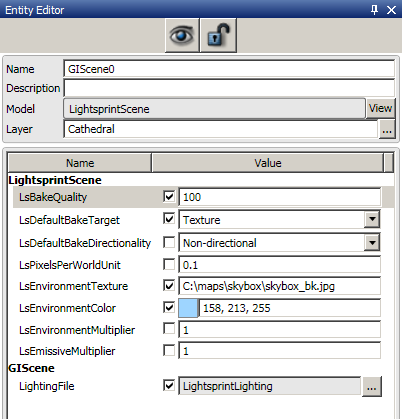
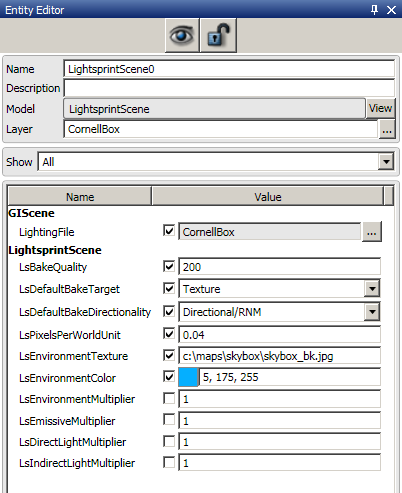
svn3495
gamebryo:
+DirectLightMultiplier
+IndirectLightMultiplier
+EmissiveMultiplier v meshi

diff --git a/src/LightsprintIO/ImportGamebryo/RRObjectGamebryo.cpp b/src/LightsprintIO/ImportGamebryo/RRObjectGamebryo.cpp
@@ -695,13 +695,25 @@ private:
 //
 // Non cached, to be called at most once per mesh.
 
-static RRMaterial* detectMaterial(NiMesh* mesh, float emissiveMultiplier)
+struct MaterialInputs
+{
+	NiMesh* mesh;
+	float emissiveMultiplier;
+
+	MaterialInputs(NiMesh* _mesh, float _emissiveMultiplier)
+	{
+		mesh = _mesh;
+		emissiveMultiplier = _emissiveMultiplier;
+	}
+};
+
+static RRMaterial* detectMaterial(MaterialInputs _materialInputs)
 {
 	RRMaterial* materialPtr = new RRMaterial;
 	RRMaterial& material = *materialPtr;
 
 	// detect material properties
-	NiStencilProperty* pkStencilProperty = NiDynamicCast(NiStencilProperty, mesh->GetProperty(NiProperty::STENCIL));
+	NiStencilProperty* pkStencilProperty = NiDynamicCast(NiStencilProperty, _materialInputs.mesh->GetProperty(NiProperty::STENCIL));
 	NiStencilProperty::DrawMode drawMode = pkStencilProperty ? pkStencilProperty->GetDrawMode() : NiStencilProperty::DRAW_CCW;
 	switch(drawMode)
 	{
@@ -733,7 +745,7 @@ static RRMaterial* detectMaterial(NiMesh* mesh, float emissiveMultiplier)
 	NiMaterialDetector* materialDetector = NiMaterialDetector::GetInstance();
 	if (materialDetector)
 	{
-		NiMaterialPointValuesPtr spColorValues = materialDetector->CreatePointMaterialTextures(mesh);
+		NiMaterialPointValuesPtr spColorValues = materialDetector->CreatePointMaterialTextures(_materialInputs.mesh);
 		material.diffuseEmittance.texture = convertTexture(spColorValues->m_spEmittanceTexture);
 		material.diffuseEmittance.texcoord = CH_EMISSIVE;
 		material.diffuseReflectance.texture = convertTextureAndSubtract(spColorValues->m_spDiffuseTexture,material.diffuseEmittance.texture);
@@ -744,7 +756,7 @@ static RRMaterial* detectMaterial(NiMesh* mesh, float emissiveMultiplier)
 		material.specularTransmittance.texcoord = CH_DIFFUSE; // transmittance has its own texture, but uv is shared with diffuse
 		material.specularTransmittanceInAlpha = false;
 		material.lightmapTexcoord = CH_LIGHTMAP;
-		material.diffuseEmittance.multiplyAdd(RRVec4(emissiveMultiplier),RRVec4(0)); // must be done after all subtractions
+		material.diffuseEmittance.multiplyAdd(RRVec4(_materialInputs.emissiveMultiplier),RRVec4(0)); // must be done after all subtractions
 
 		// get average colors from textures
 		RRScaler* scaler = RRScaler::createFastRgbScaler();
@@ -760,7 +772,7 @@ static RRMaterial* detectMaterial(NiMesh* mesh, float emissiveMultiplier)
 	// optimize material flags
 	material.updateSideBitsFromColors();
 
-	material.name = mesh->GetActiveMaterial() ? mesh->GetActiveMaterial()->GetName() : NULL;
+	material.name = _materialInputs.mesh->GetActiveMaterial() ? _materialInputs.mesh->GetActiveMaterial()->GetName() : NULL;
 	return materialPtr;
 }
 
@@ -777,23 +789,22 @@ static RRMaterial* detectMaterial(NiMesh* mesh, float emissiveMultiplier)
 class MaterialCacheGamebryo
 {
 public:
-	MaterialCacheGamebryo(float _emissiveMultiplier)
+	MaterialCacheGamebryo()
 	{
 		defaultMaterial.reset(false);
-		emissiveMultiplier = _emissiveMultiplier;
 	}
 	// Looks for material in cache. Not found -> creates new material and stores it in cache.
 	// Called once per mesh.
-	RRMaterial* getMaterial(NiMesh* mesh)
+	RRMaterial* getMaterial(MaterialInputs _materialInputs)
 	{
-		if (!mesh)
+		if (!_materialInputs.mesh)
 		{
 			return &defaultMaterial;
 		}
 		// quickly search in map by NiMaterial
 		SlowCache* slowCache;
 		{
-			FastCache::iterator i = fastCache.find(mesh->GetActiveMaterial());
+			FastCache::iterator i = fastCache.find(_materialInputs.mesh->GetActiveMaterial());
 			if (i!=fastCache.end())
 			{
 				//RRReporter::report(INF1,"1 in cache\n");
@@ -802,13 +813,13 @@ public:
 			else
 			{
 				//RRReporter::report(INF1,"1 new\n");
-				slowCache = &( fastCache[mesh->GetActiveMaterial()] );
+				slowCache = &( fastCache[_materialInputs.mesh->GetActiveMaterial()] );
 			}
 		}
 		// slowly scan whole list by isEqualMaterial
 		for (SlowCache::iterator i=slowCache->begin();i!=slowCache->end();++i)
 		{
-			if (isEqualMaterial(mesh,(*i).mesh))
+			if (isEqualMaterial(_materialInputs,(*i).materialInputs))
 			{
 				//RRReporter::report(INF1,"2 in cache\n");
 				return (*i).material;
@@ -817,25 +828,20 @@ public:
 		//RRReporter::report(INF1,"2 new\n");
 		// push CacheElement, then assign material
 		// (RRMaterial must not be assigned to temporary CacheElement, becuase ~CacheElement at the end of this scope would delete material textures)
-		slowCache->push_front(CacheElement(mesh));
-		return slowCache->begin()->material = detectMaterial(mesh,emissiveMultiplier);
-	}
-	void setEmissiveMultiplier(float _emissiveMultiplier)
-	{
-		emissiveMultiplier = _emissiveMultiplier;
+		slowCache->push_front(CacheElement(_materialInputs));
+		return slowCache->begin()->material = detectMaterial(_materialInputs);
 	}
 private:
 	RRMaterial defaultMaterial;
-	float emissiveMultiplier;
 
 	struct CacheElement
 	{
-		const NiMesh* mesh;
+		MaterialInputs materialInputs;
 		RRMaterial* material;
 
-		CacheElement(const NiMesh* _mesh)
+		CacheElement(MaterialInputs _materialInputs)
+			: materialInputs(_materialInputs)
 		{
-			mesh = _mesh;
 			material = NULL;
 		}
 		CacheElement& operator =(const CacheElement& a)
@@ -845,7 +851,7 @@ private:
 			// copying non-NULL material would lead to double delete
 			RR_ASSERT(!a.material);
 			material = NULL;
-			mesh = a.mesh;
+			materialInputs = a.materialInputs;
 		}
 		~CacheElement()
 		{
@@ -856,13 +862,15 @@ private:
 	typedef std::map<const NiMaterial*,SlowCache> FastCache;
 	FastCache fastCache;
 
-	static bool isEqualMaterial(const NiMesh* mesh1, const NiMesh* mesh2)
+	static bool isEqualMaterial(const MaterialInputs& mesh1, const MaterialInputs& mesh2)
 	{
-		// proper use of FastCache ensures that only meshes with identical active material are compared
-		RR_ASSERT(mesh1->GetActiveMaterial()==mesh2->GetActiveMaterial());
+		if (mesh1.emissiveMultiplier!=mesh2.emissiveMultiplier) return false;
 
-		NiPropertyState* ps1 = mesh1->GetPropertyState();
-		NiPropertyState* ps2 = mesh2->GetPropertyState();
+		// proper use of FastCache ensures that only meshes with identical active material are compared
+		RR_ASSERT(mesh1.mesh->GetActiveMaterial()==mesh2.mesh->GetActiveMaterial());
+
+		NiPropertyState* ps1 = mesh1.mesh->GetPropertyState();
+		NiPropertyState* ps2 = mesh2.mesh->GetPropertyState();
 		#define TEST_FAST(prop) if (!ps1->Get##prop()->IsEqualFast(*ps2->Get##prop())) return false;
 		#define TEST_SLOW(prop) if (!ps1->Get##prop()->IsEqual    ( ps2->Get##prop())) return false;
 		TEST_FAST(Alpha);
@@ -985,6 +993,7 @@ struct PerEntitySettings
 	float lsResolutionMultiplier;
 	unsigned lsResolutionFixedWidth;
 	unsigned lsResolutionFixedHeight;
+	float lsEmissiveMultiplier;
 
 	PerEntitySettings()
 	{
@@ -994,6 +1003,7 @@ struct PerEntitySettings
 		lsResolutionMultiplier = 1;
 		lsResolutionFixedWidth = 128;
 		lsResolutionFixedHeight = 128;
+		lsEmissiveMultiplier = 1;
 	}
 #if GAMEBRYO_MAJOR_VERSION==3
 	void readFrom(egf::Entity* entity)
@@ -1017,6 +1027,9 @@ struct PerEntitySettings
 
 		entity->GetPropertyValue("LsResolutionFixedHeight", lsResolutionFixedHeight);
 		RR_CLAMP(lsResolutionFixedWidth,1,4096);
+
+		entity->GetPropertyValue("LsEmissiveMultiplier", lsEmissiveMultiplier);
+		RR_CLAMP(lsEmissiveMultiplier,0,1e6f);
 	}
 	void inheritFrom(const PerSceneSettings& perSceneSettings)
 	{
@@ -1024,6 +1037,7 @@ struct PerEntitySettings
 			lsBakeTarget = perSceneSettings.lsDefaultBakeTarget;
 		if (lsBakeDirectionality==PE_INHERIT_FROM_LIGHTSPRINT_SCENE)
 			lsBakeDirectionality = perSceneSettings.lsDefaultBakeDirectionality;
+		lsEmissiveMultiplier *= perSceneSettings.lsEmissiveMultiplier;
 	}
 #endif
 };
@@ -1151,7 +1165,7 @@ public:
 			delete mesh;
 			return NULL;
 		}
-		RRObjectGamebryo* object = new RRObjectGamebryo(_mesh, collider, _lodInfo, _materialCache);
+		RRObjectGamebryo* object = new RRObjectGamebryo(MaterialInputs(_mesh,perEntitySettings.lsEmissiveMultiplier), collider, _lodInfo, _materialCache);
 		object->perEntitySettings = perEntitySettings;
 		return object;
 	}
@@ -1243,16 +1257,16 @@ public:
 	PerEntitySettings perEntitySettings;
 
 private:
-	RRObjectGamebryo(NiMesh* _mesh, const RRCollider* _collider, RRObject::LodInfo _lodInfo, MaterialCacheGamebryo& _materialCache)
+	RRObjectGamebryo(MaterialInputs _materialInputs, const RRCollider* _collider, RRObject::LodInfo _lodInfo, MaterialCacheGamebryo& _materialCache)
 	{
-		NIASSERT(_mesh);
+		NIASSERT(_materialInputs.mesh);
 		NIASSERT(_collider);
-		mesh = _mesh;
+		mesh = _materialInputs.mesh;
 		meshIndex = 0;
 		setCollider(_collider);
 		lodInfo = _lodInfo;
 		setWorldMatrix(&convertMatrix(mesh->GetWorldTransform()));
-		material = _materialCache.getMaterial(mesh);
+		material = _materialCache.getMaterial(_materialInputs);
 		faceGroups.push_back(FaceGroup(material,mesh->GetTotalPrimitiveCount()));
 		name = mesh->GetName();
 	}
@@ -1271,12 +1285,12 @@ class RRObjectsGamebryo : public RRObjects
 public:
 	// path used by .gsa
 	RRObjectsGamebryo(NiScene* _pkEntityScene, bool& _aborting, float _emissiveMultiplier)
-		: materialCache(_emissiveMultiplier)
 	{
 		// .gsa doesn't have entity settings, set defaults for .gsa
 		PerEntitySettings perEntitySettings;
 		perEntitySettings.lsBakeTarget = PE_TEXTURE;
 		perEntitySettings.lsBakeDirectionality = PE_NON_DIRECTIONAL;
+		perEntitySettings.lsEmissiveMultiplier = _emissiveMultiplier;
 
 		pkEntityScene = _pkEntityScene;
 		RRObject::LodInfo lodInfo;
@@ -1310,7 +1324,6 @@ public:
 #if GAMEBRYO_MAJOR_VERSION==3
 	// path used by Gamebryo 3.x Toolbench plugin
 	RRObjectsGamebryo(efd::ServiceManager* serviceManager, bool& _aborting)
-		: materialCache(1)
 	{
 		pkEntityScene = NULL; // not used from plugin, but clear it anyway
 		RRObject::LodInfo lodInfo;
@@ -1339,7 +1352,6 @@ public:
 						if (entity->GetModel()->ContainsModel("LightsprintScene"))
 						{
 							perSceneSettings.readFrom(entity);
-							materialCache.setEmissiveMultiplier(perSceneSettings.lsEmissiveMultiplier);
 							numLightsprintScenes++;
 						}
 						if (entity && entity->GetModel()->ContainsModel("Mesh"))
